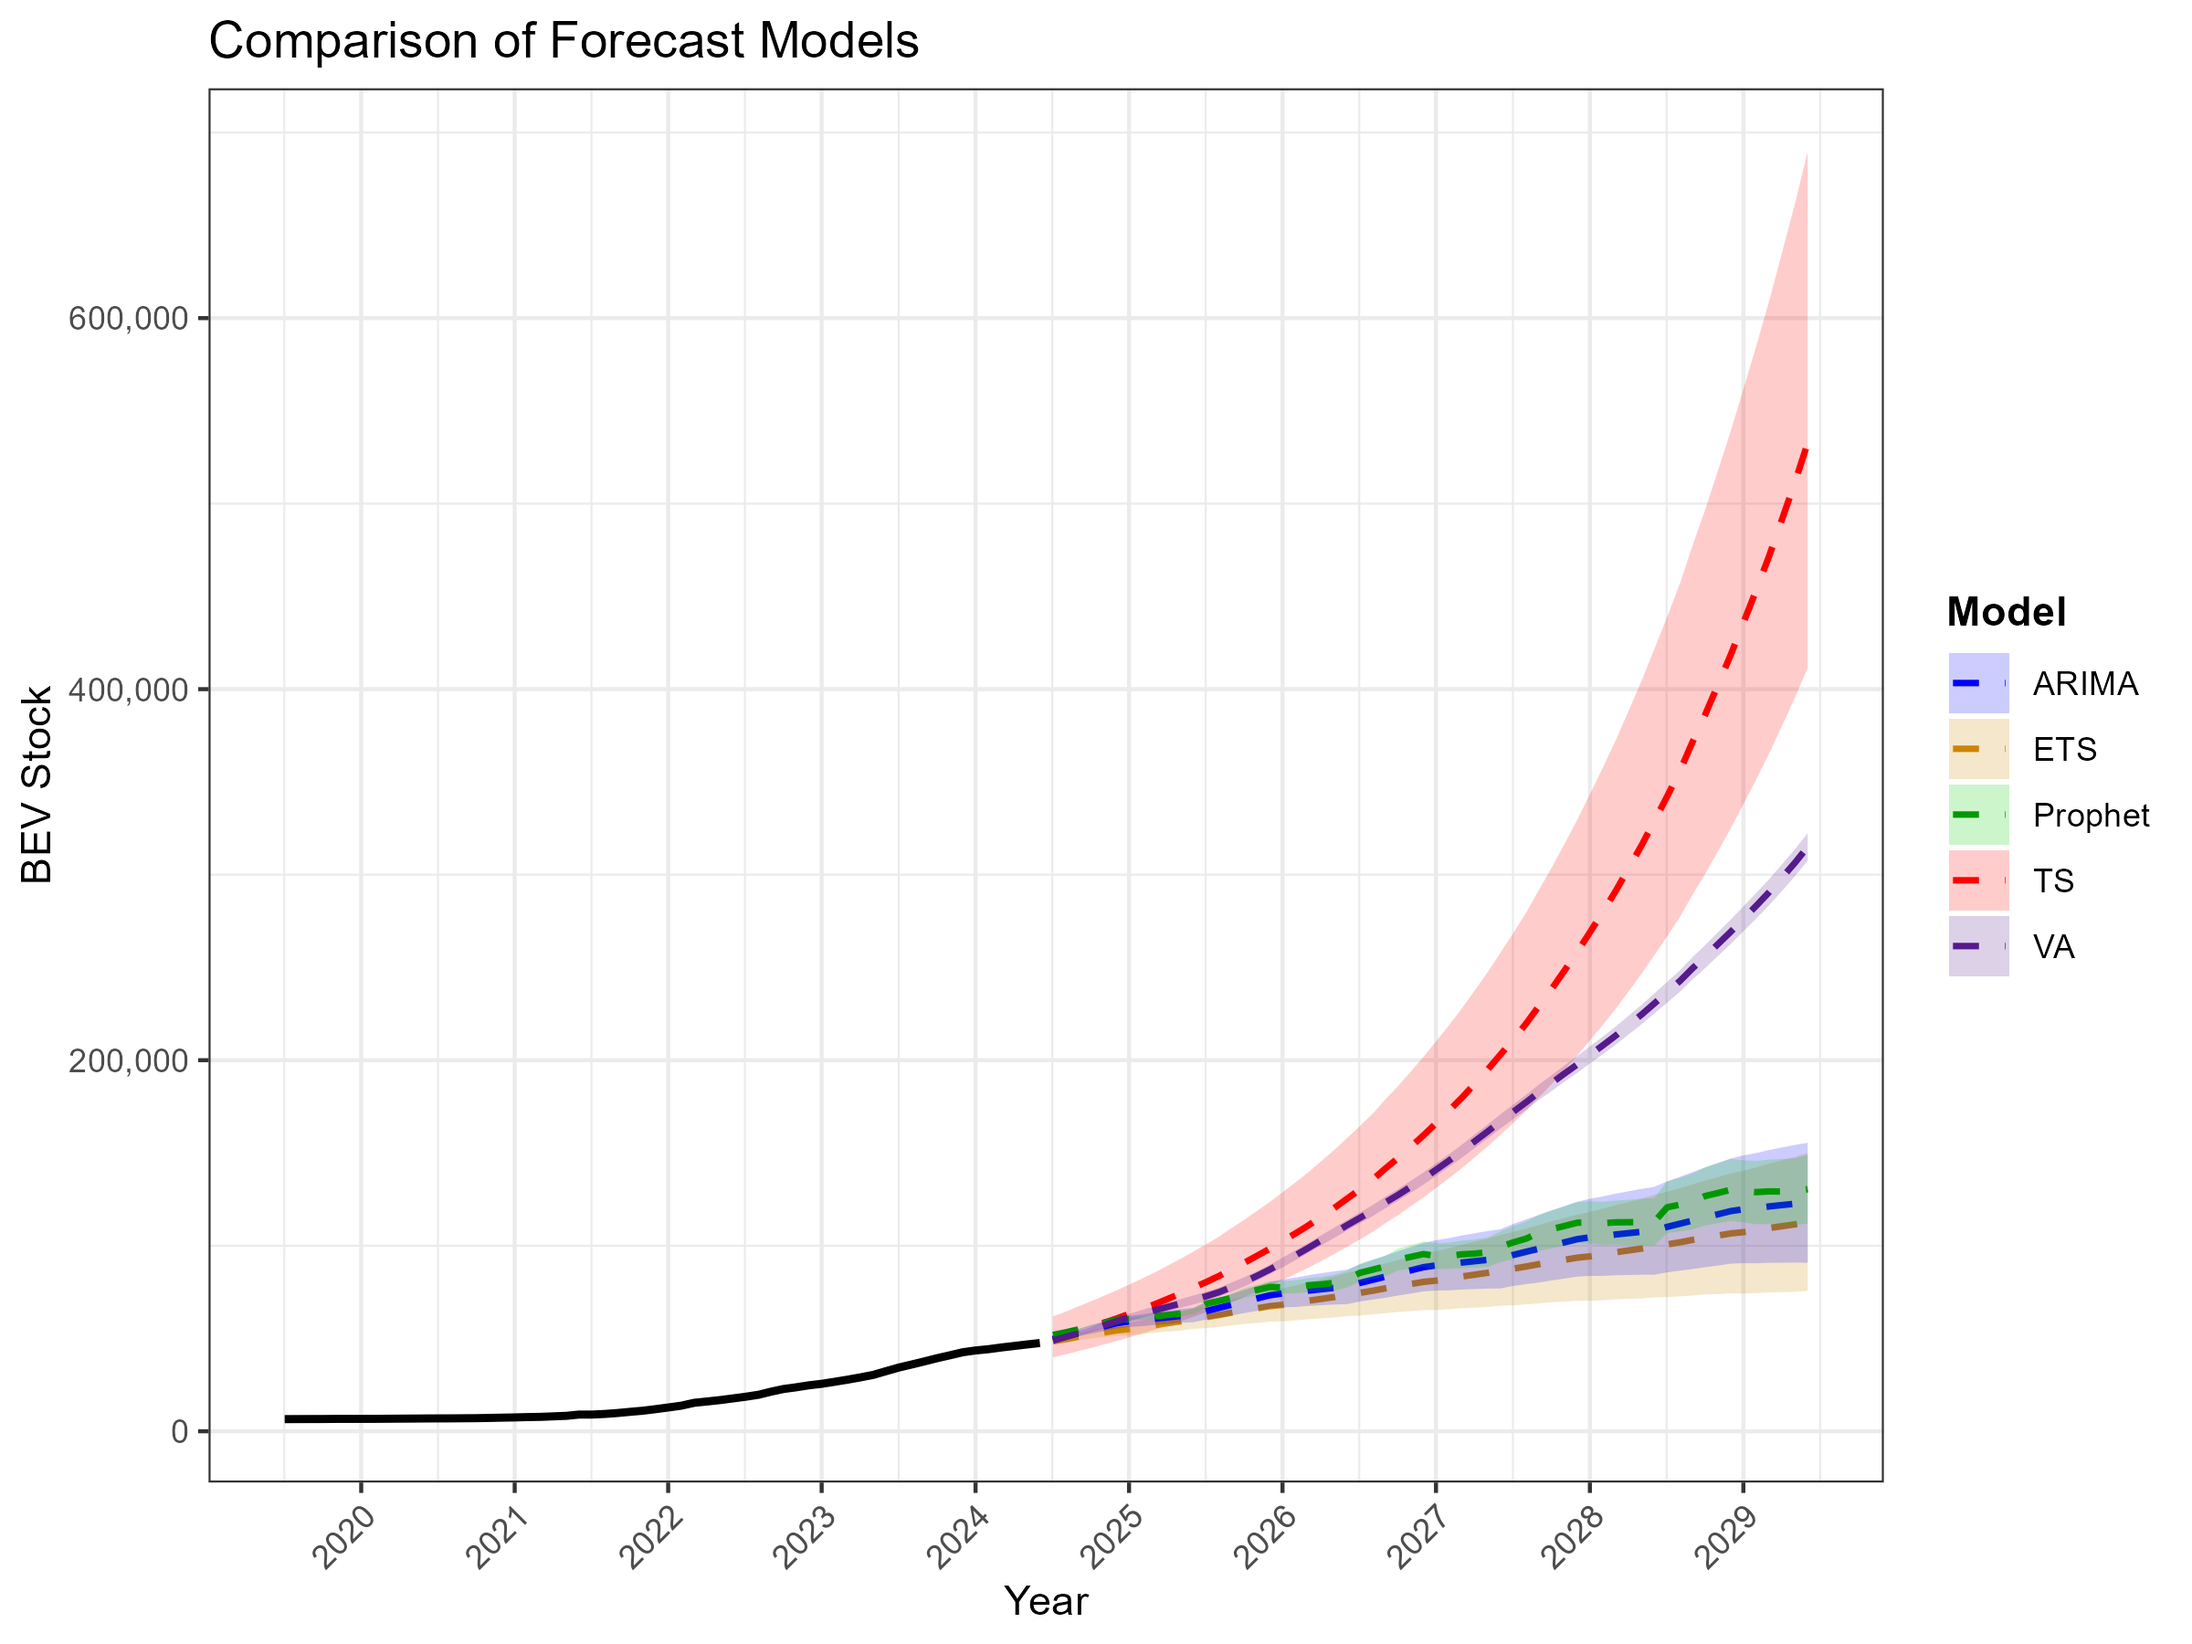
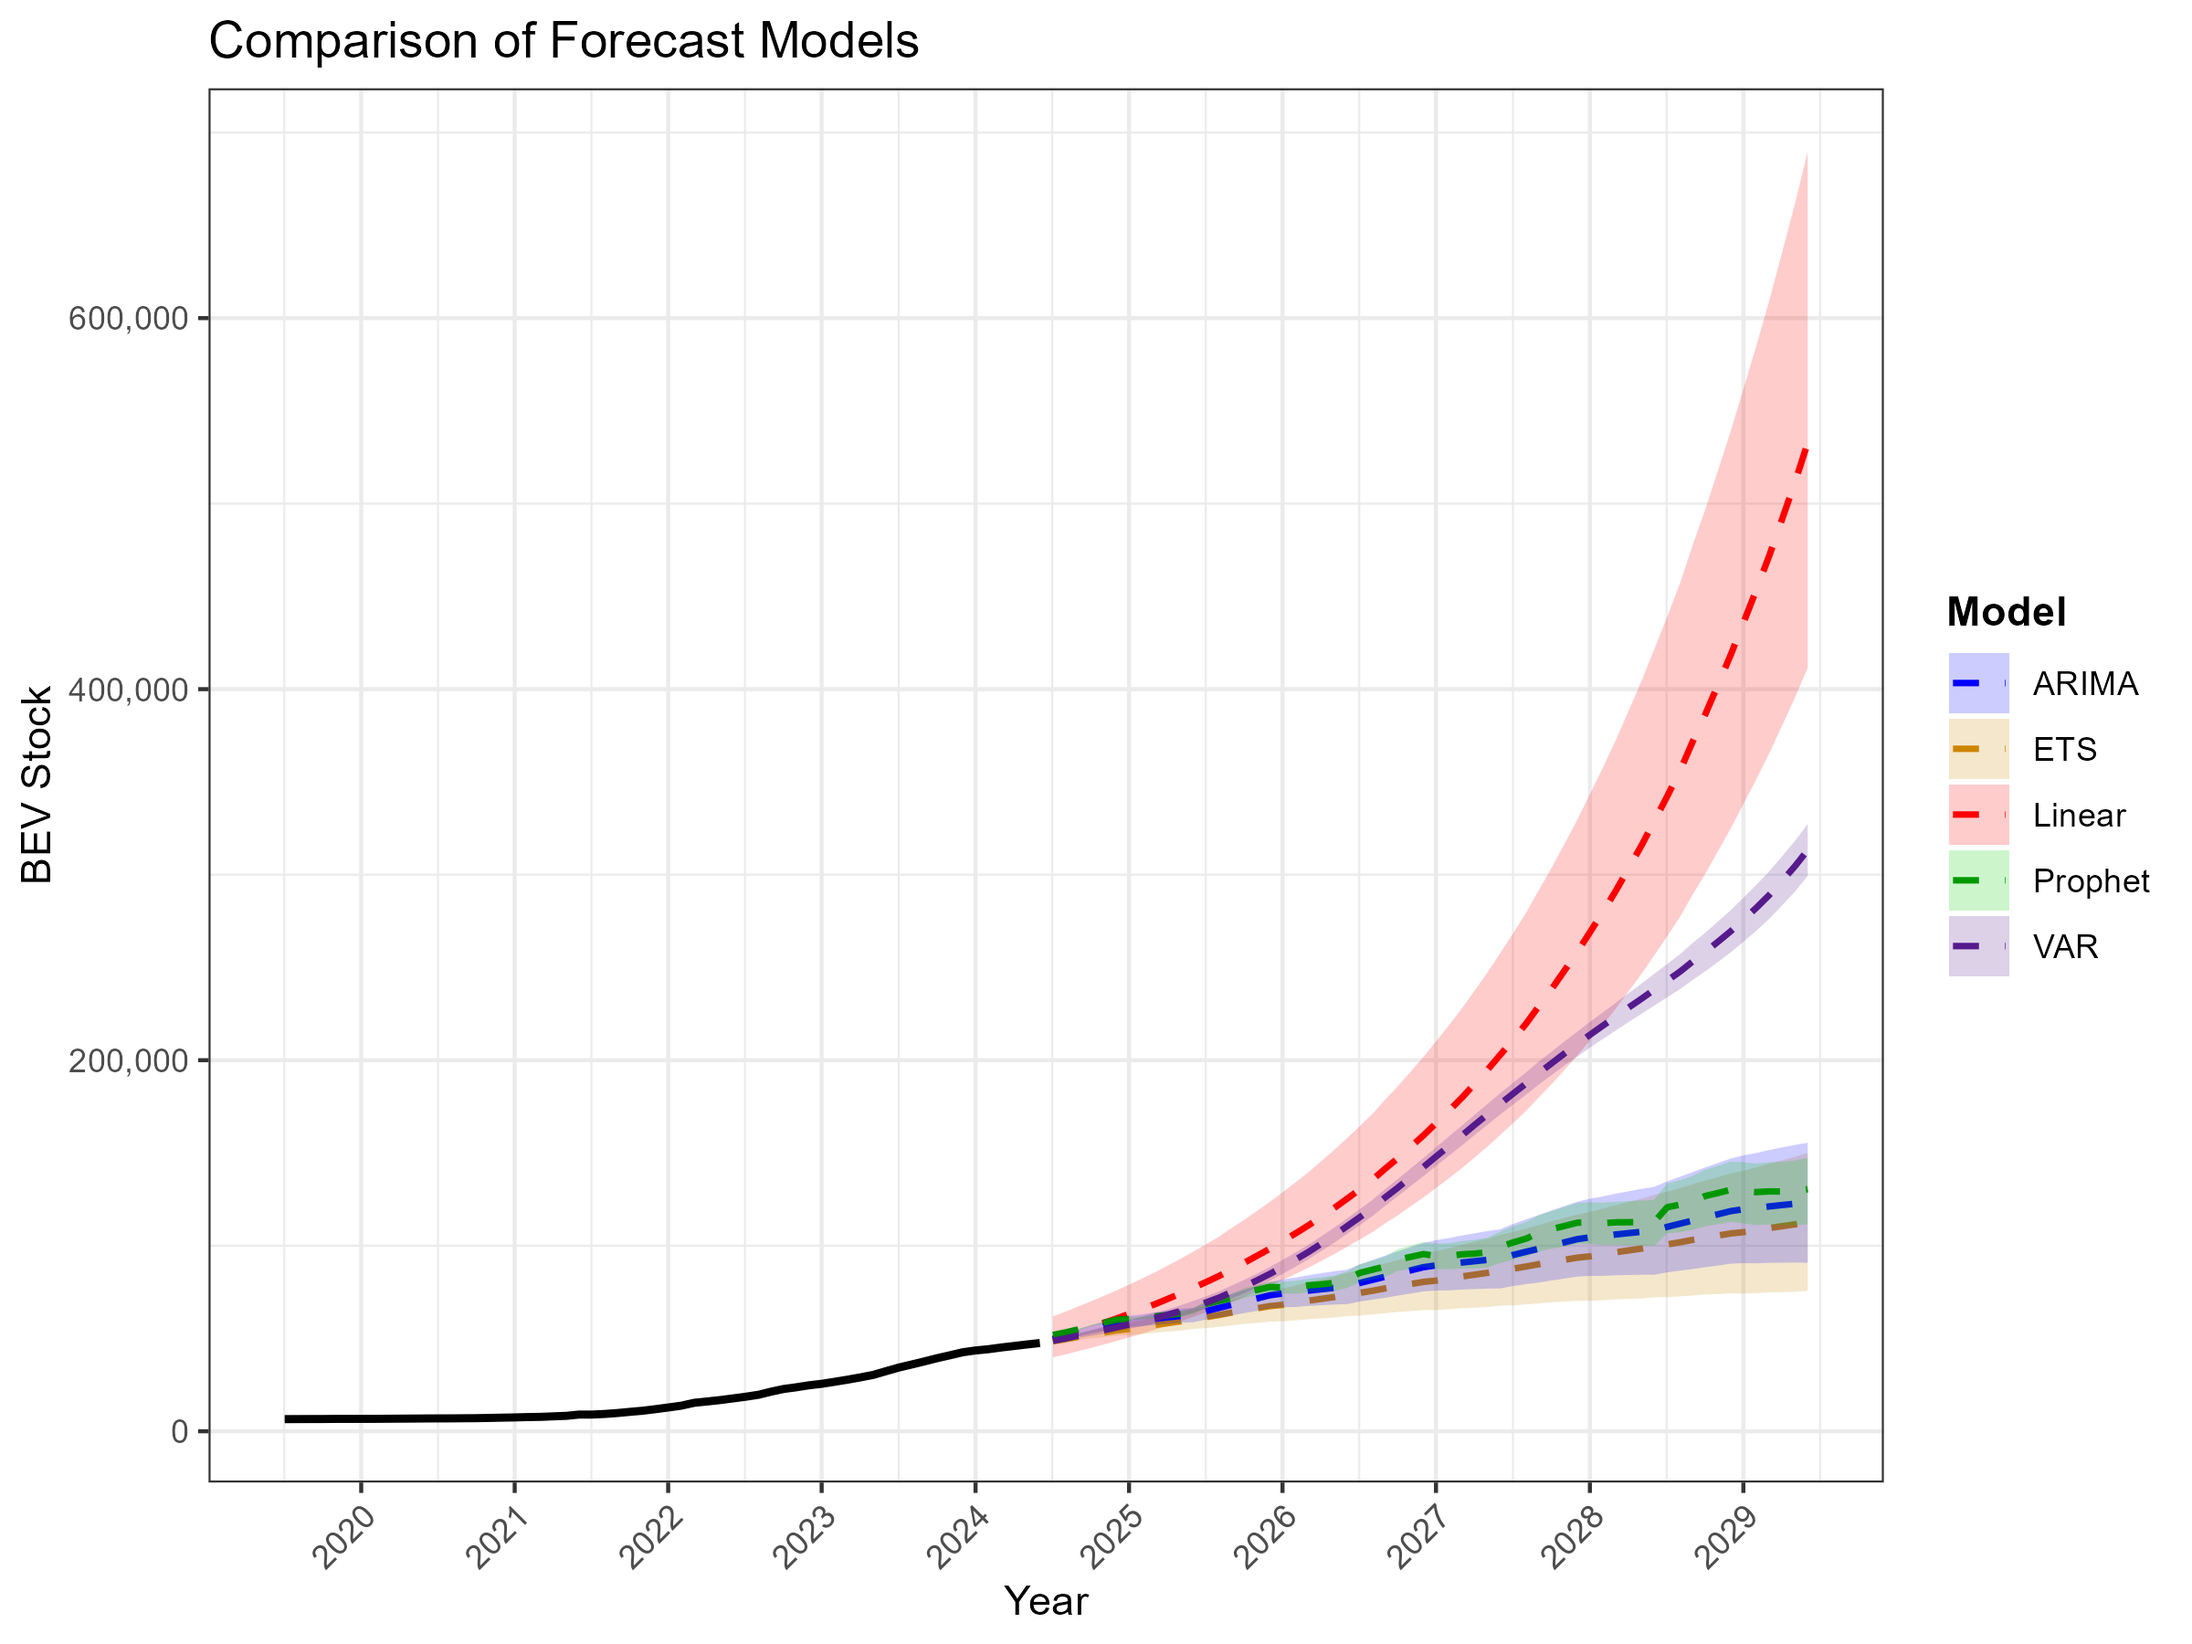
Updated VAR model and plots

diff --git a/6_tables/table_fcast_comparison.html b/6_tables/table_fcast_comparison.html
@@ -300,16 +300,16 @@ border: 0;
   </tr>
   <tr>
    <td style="text-align:left;"> Vector Autoregression </td>
-   <td style="text-align:left;"> 315,008.6 </td>
-   <td style="text-align:left;"> 307,604.6 </td>
-   <td style="text-align:left;"> 322,412.6 </td>
+   <td style="text-align:left;"> 313,279.5 </td>
+   <td style="text-align:left;"> 299,257.0 </td>
+   <td style="text-align:left;"> 327,302.0 </td>
    <td style="text-align:left;"> 95% </td>
   </tr>
   <tr>
    <td style="text-align:left;"> Prophet </td>
    <td style="text-align:left;"> 130,471.4 </td>
-   <td style="text-align:left;"> 111,853.3 </td>
-   <td style="text-align:left;"> 148,922.1 </td>
+   <td style="text-align:left;"> 111,598.3 </td>
+   <td style="text-align:left;"> 147,407.2 </td>
    <td style="text-align:left;"> 80% </td>
   </tr>
   <tr>
